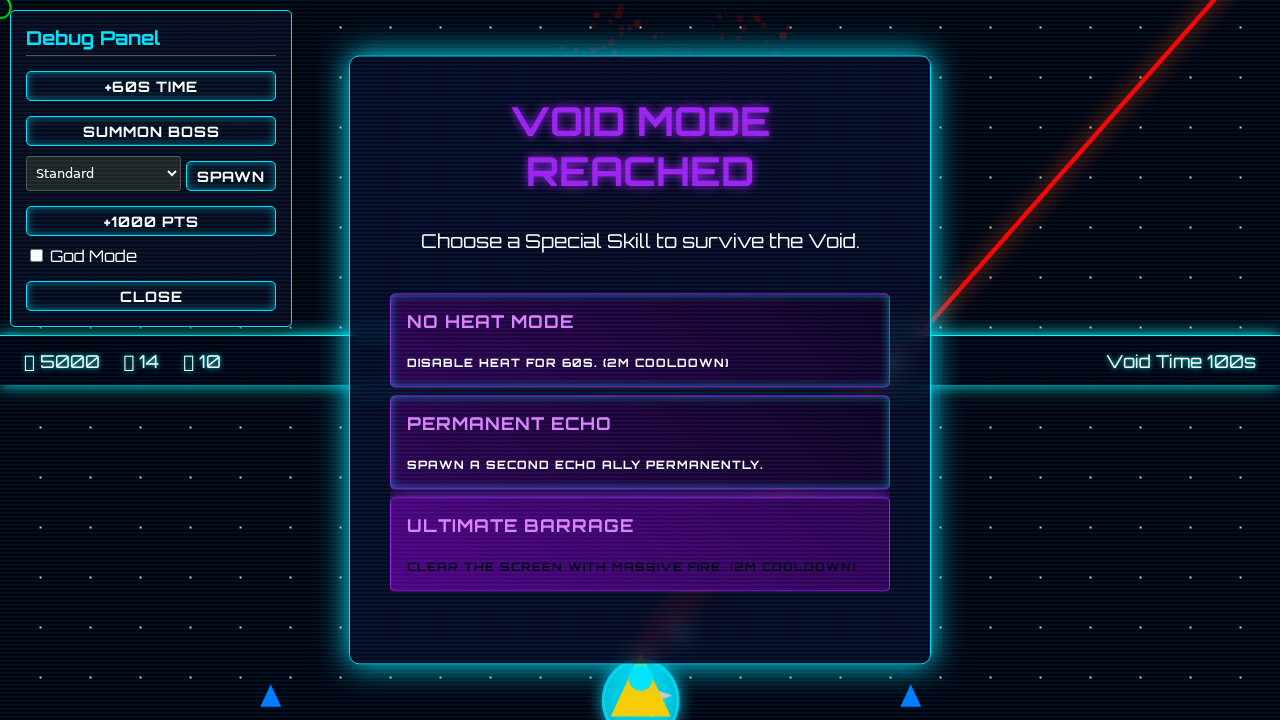
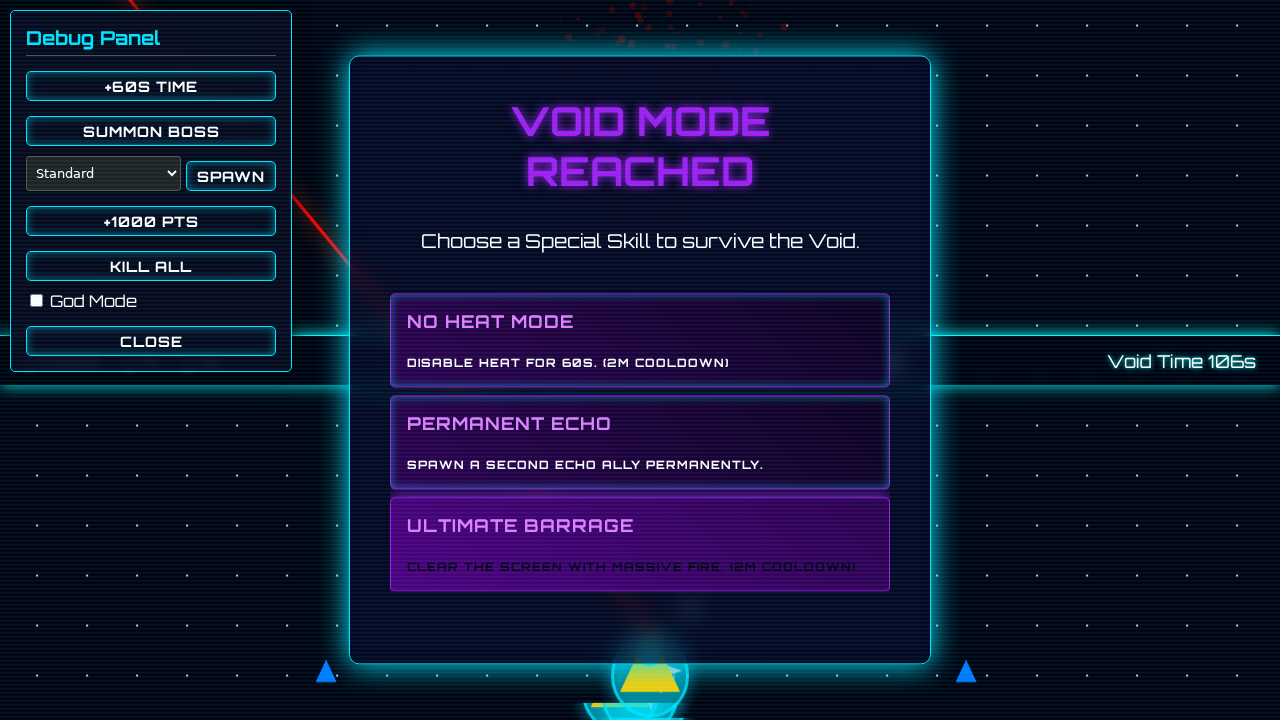
Implement Void Mode Mechanics (100s+)
- Added `Tanker`, `Stunner`, and `BehemothTurret` classes.
- Implemented `voidStartTime` and `getVoidTime()` for relative Void Mode progression.
- Implemented global x2 damage buff and skill selection trigger at 100s Void Time.
- Added Void Skill System with UI (No Heat, Permanent Echo, Ultimate Barrage).
- Enforced 100s delay for advanced Void features.
- Updated `checkCollisions` for new mechanics (Tanker Parry, Shield logic).
- Updated HUD and CSS for Void Skills.
- Added "Kill All" button to Debug Panel.

diff --git a/src/game.js b/src/game.js
@@ -16,6 +16,7 @@ export class Game {
         this.coolants = []; // New drop items
         this.score = 0;
         this.gameTime = 0;
+        this.voidStartTime = 0; // Initialize voidStartTime
         this.deltaTime = 0;
         this.lastTime = 0;
         this.nextBossTime = 0;
@@ -82,6 +83,7 @@ export class Game {
         this.coolants = [];
         this.score = 0;
         this.gameTime = 0;
+        this.voidStartTime = 0; // Reset voidStartTime
         this.deltaTime = 0;
         this.lastTime = 0;
         this.lastSpawnTime = 0;
@@ -170,7 +172,7 @@ export class Game {
         }
 
         // VOID MODE 100s TRIGGER
-        if (this.finalBossDefeated && this.gameTime >= 100 && !this.selectedSkill && !this.isPaused) {
+        if (this.finalBossDefeated && this.getVoidTime() >= 100 && !this.selectedSkill && !this.isPaused) {
              this.showVoidSkillSelection();
         }
 
@@ -216,6 +218,10 @@ export class Game {
             this.updateHUD();
             this.checkUpgrades();
         }
+    }
+
+    getVoidTime() {
+        return Math.max(0, this.gameTime - this.voidStartTime);
     }
     
     draw() {
@@ -292,7 +298,7 @@ export class Game {
         }
 
         // VOID MODE BEHEMOTH SPAWN (at 150s Void Time)
-        if (this.finalBossDefeated && this.gameTime >= 150 && !this.behemothSpawned) {
+        if (this.finalBossDefeated && this.getVoidTime() >= 150 && !this.behemothSpawned) {
              this.asteroids.push(new BehemothTurret(this));
              this.behemothSpawned = true;
              this.isBossActive = true;
@@ -313,7 +319,7 @@ export class Game {
 
     getSpawnType() {
         const isVoid = this.finalBossDefeated;
-        const t = this.gameTime;
+        const t = isVoid ? this.getVoidTime() : this.gameTime;
         const weights = [];
 
         if (!isVoid) {
@@ -522,7 +528,7 @@ export class Game {
                     let damage = this.projectiles[i].damage;
 
                     // VOID MODE GLOBAL DAMAGE BUFF (x2) - STARTS AT 100s+
-                    if (this.finalBossDefeated && this.gameTime >= 100) damage *= 2;
+                    if (this.finalBossDefeated && this.getVoidTime() >= 100) damage *= 2;
 
                     asteroid.health -= damage;
 
@@ -557,7 +563,7 @@ export class Game {
                 UI.heatGroup.style.display = 'flex'; // Show Heat Bar
                 
                 // VOID TIME RESET
-                this.gameTime = 0;
+                this.voidStartTime = this.gameTime;
                 UI.timerLabel.innerText = "Void Time";
 
                 this.upgradePoints += 10;
@@ -693,7 +699,8 @@ export class Game {
     updateHUD() {
         UI.scoreDisplay.innerText = `${this.score}`;
         UI.shieldDisplay.innerText = `${this.player.shieldCharges}`;
-        UI.timerDisplay.innerText = `${Math.floor(this.gameTime)}s`;
+        const displayTime = this.finalBossDefeated ? this.getVoidTime() : this.gameTime;
+        UI.timerDisplay.innerText = `${Math.floor(displayTime)}s`;
         UI.updateUpgradePoints(this.upgradePoints);
         
         // Update Heat Bar

diff --git a/index.js b/index.js
@@ -176,6 +176,7 @@ window.addEventListener('DOMContentLoaded', () => {
     const debugSpawnEnemy = document.getElementById('debug-spawn-enemy');
     const debugEnemySelect = document.getElementById('debug-enemy-select');
     const debugAddScore = document.getElementById('debug-add-score');
+    const debugKillAll = document.getElementById('debug-kill-all');
     const debugGodMode = document.getElementById('debug-god-mode');
 
     // Make Void Enemies Selectable in Debug
@@ -217,6 +218,26 @@ window.addEventListener('DOMContentLoaded', () => {
         game.score += 1000;
         game.upgradePoints += 10;
         game.updateHUD();
+    });
+
+    debugKillAll.addEventListener('click', () => {
+        // Iterate backwards to safely remove
+        for (let i = game.asteroids.length - 1; i >= 0; i--) {
+            const asteroid = game.asteroids[i];
+            if (!asteroid.isBoss) { // Don't kill Boss/Mini-boss usually, but request said "all enemies"
+                 // Setting health to 0 triggers explosion and drops in game loop
+                 asteroid.health = 0;
+                 // Force immediate handle if we want instant clear, but letting game loop handle it
+                 // creates a nice chain reaction of explosions.
+                 // However, let's call handleAsteroidDestruction directly to ensure they are gone now
+                 game.handleAsteroidDestruction(asteroid, i);
+            } else {
+                 // For bosses, maybe just deal massive damage?
+                 // Request said "Kill all". Let's kill bosses too.
+                 asteroid.health = 0;
+                 game.handleAsteroidDestruction(asteroid, i);
+            }
+        }
     });
 
     debugGodMode.addEventListener('change', () => {

diff --git a/index.html b/index.html
@@ -59,6 +59,7 @@
                 <button id="debug-spawn-enemy">Spawn</button>
             </div>
             <button id="debug-add-score">+1000 Pts</button>
+            <button id="debug-kill-all">Kill All</button>
             <label><input type="checkbox" id="debug-god-mode"> God Mode</label>
             <button id="debug-close">Close</button>
         </div>

diff --git a/verification/verify_void.py b/verification/verify_void.py
@@ -1,0 +1,50 @@
+from playwright.sync_api import sync_playwright
+import time
+
+def verify_void_ui():
+    with sync_playwright() as p:
+        browser = p.chromium.launch(headless=True)
+        page = browser.new_page()
+        page.goto("http://localhost:8080/index.html")
+
+        # 1. Start Game
+        page.get_by_role("button", name="Play Now!").click()
+        time.sleep(1)
+
+        # 2. Open Debug Panel
+        page.locator("#debug-toggle").click()
+
+        # 3. Summon Boss
+        page.locator("#debug-summon-boss").click()
+        time.sleep(1)
+
+        # 4. Kill Boss to unlock Void Mode
+        page.evaluate("game.finalBoss.health = 0")
+        time.sleep(2)
+
+        # 5. Close Upgrade Modal if it appeared
+        if page.locator("#upgrade-modal").is_visible():
+            page.locator("#continue-button").click()
+            time.sleep(1)
+
+        # 6. Fast Forward Time to 100s IN VOID MODE
+        # We need to advance gameTime so that (gameTime - voidStartTime) >= 100
+        # voidStartTime was set when boss died (approx t=current).
+        # So we need to add 100 to current gameTime.
+        page.evaluate("game.gameTime += 105")
+        time.sleep(1)
+
+        # 7. Screenshot Modal
+        page.screenshot(path="verification/void_skill_modal.png")
+
+        # 8. Select Skill
+        page.locator("#skill-no-heat").click()
+        time.sleep(0.5)
+
+        # 9. Verify HUD Button appeared
+        page.screenshot(path="verification/hud_button.png")
+
+        browser.close()
+
+if __name__ == "__main__":
+    verify_void_ui()
